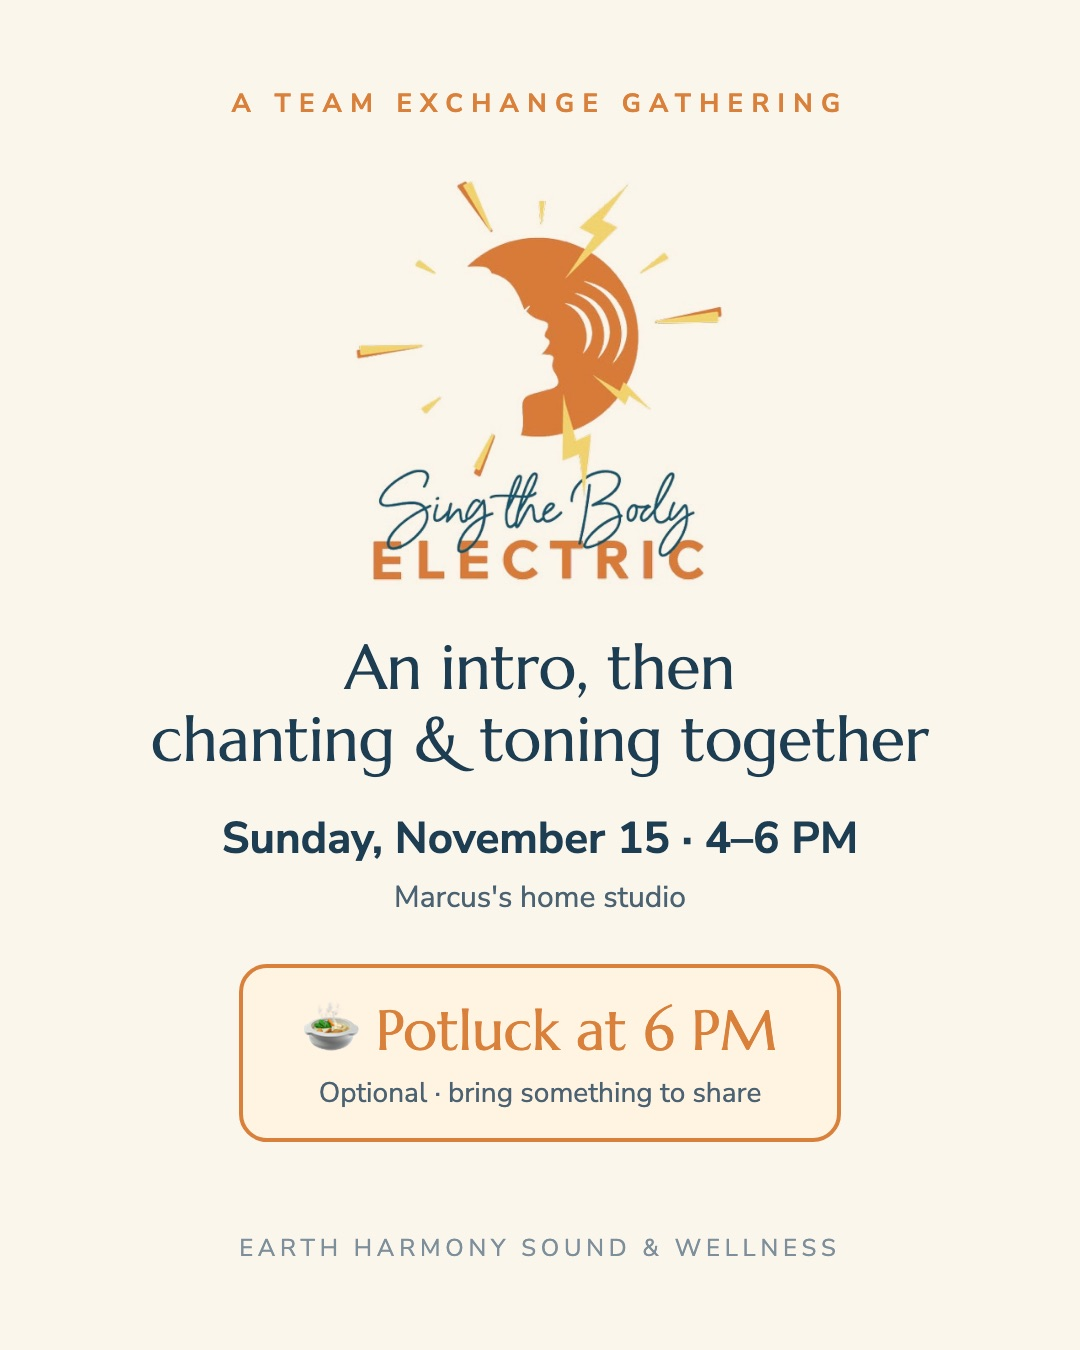
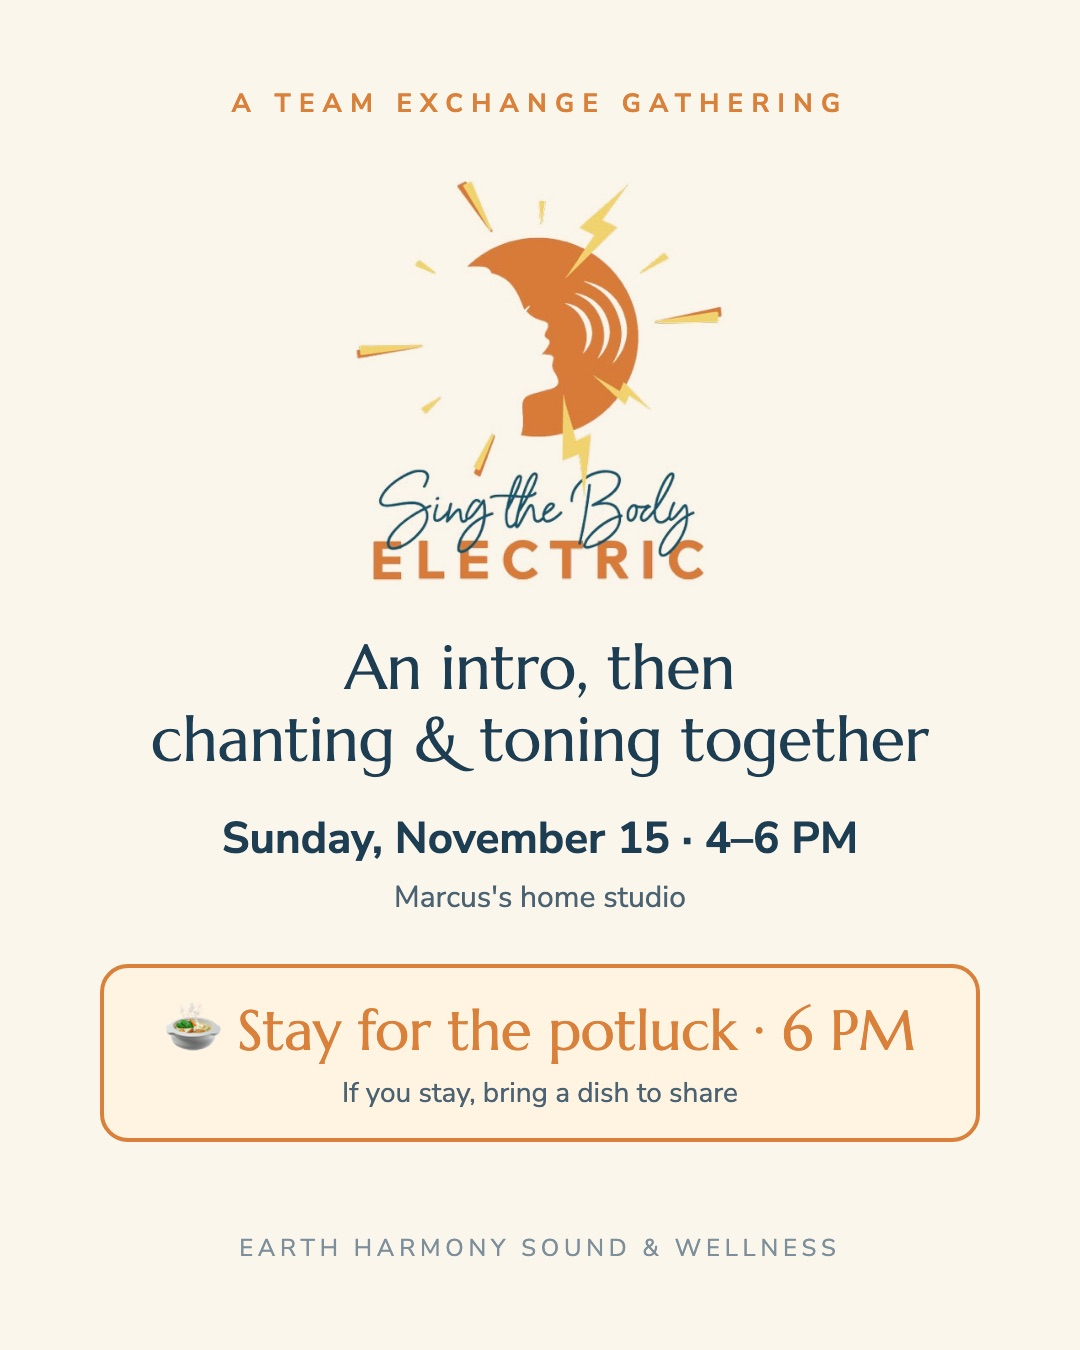
STBE Nov 15: potluck wording

Changed region(s): [[0.1222, 0.7156, 0.8861, 0.8711], [0.8861, 0.7156, 0.9167, 0.84], [0.0917, 0.7156, 0.1222, 0.84]]

diff --git a/exchange/index.html b/exchange/index.html
@@ -125,7 +125,7 @@ input:focus,textarea:focus,select:focus,button:focus-visible{outline:2px solid v
     'stbe-nov15': { eyebrow: 'Team Exchange · Sun Nov 15 · 4–6pm', h1: 'Sing the Body Electric',
       img: 'https://events.earthharmonysoundwellness.com/photos/nl-2026-11/stbe.jpg',
       lead: ['Find your name and tap in if you\'re coming', '4–6pm: an intro to Sing the Body Electric, then chanting and toning together',
-             'Have a chant or song you\'d love to share? Add it', '6pm: potluck. Bring something to share if you\'d like to stay'],
+             'Have a chant or song you\'d love to share? Add it', '6pm: stay for the potluck if you can. If you stay, bring a dish to share'],
       roster: ['Oksanna', 'Brock', 'Nadeen', 'Ashlii', 'Judy', 'Treyna', 'Jen', 'Desiree'] } };
   const EVID = new URLSearchParams(location.search).get('ev');
   const EV = EVENTS[EVID];
